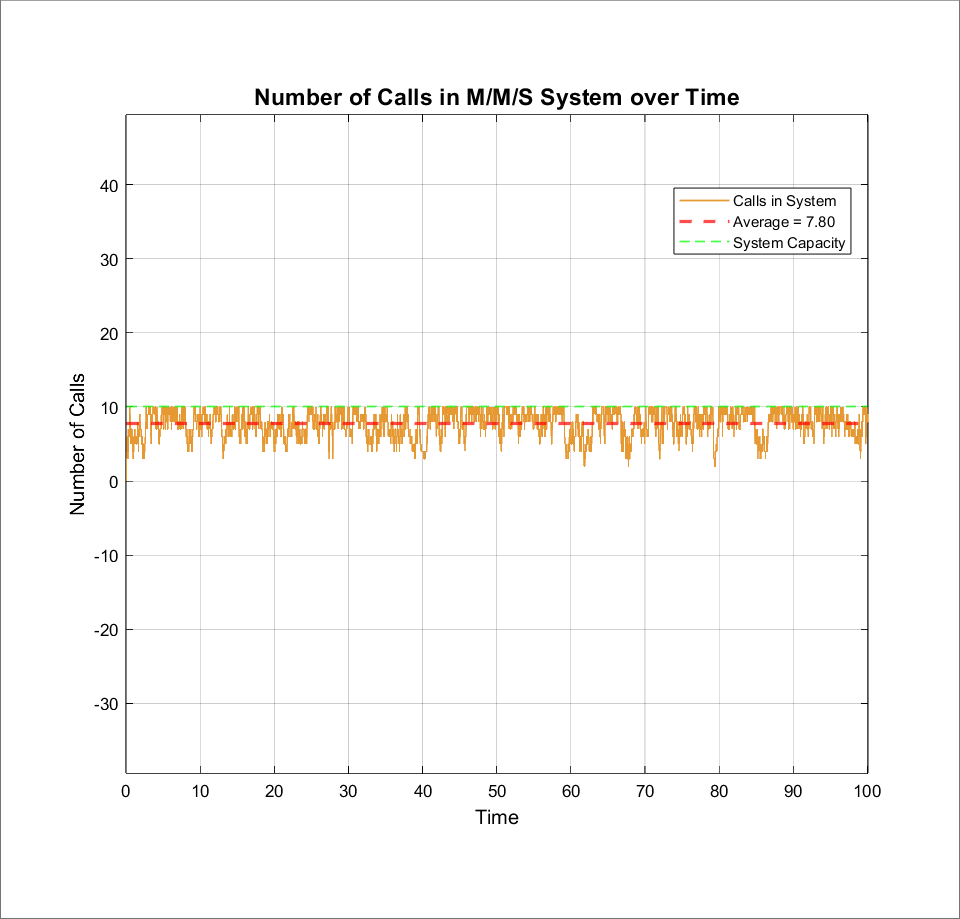
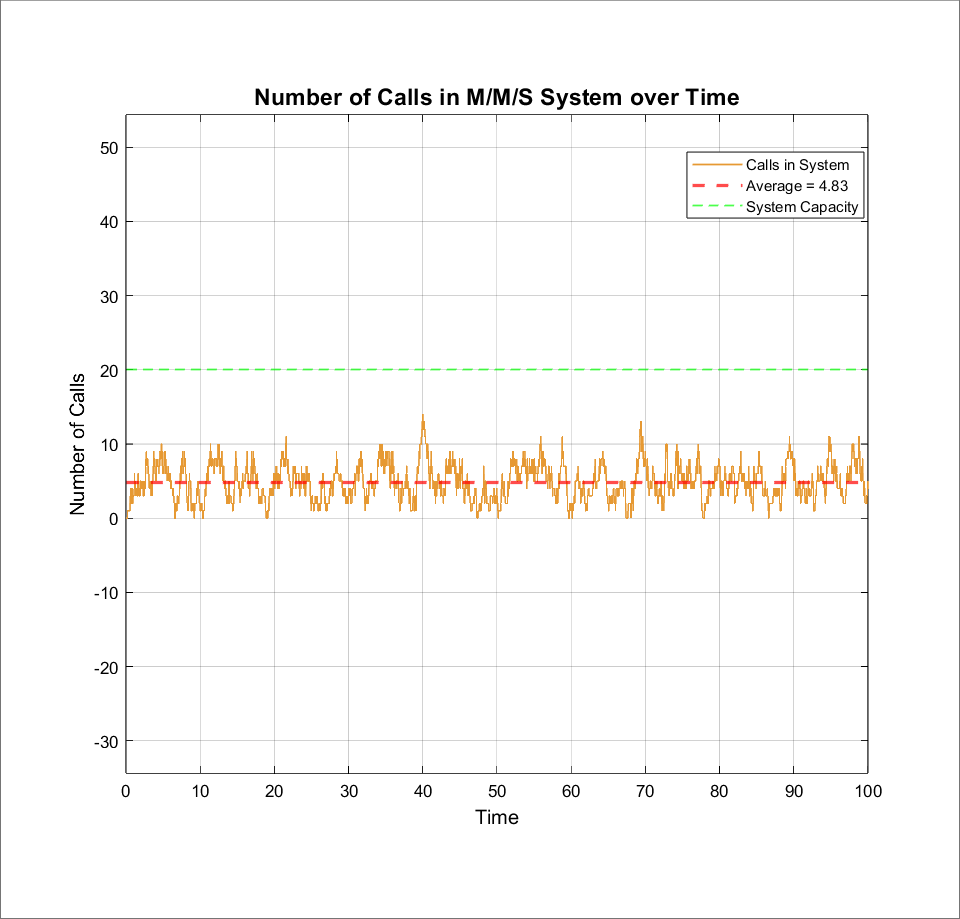
Refactored to Simulate on Server Capacity Values

diff --git a/M_M_S.m b/M_M_S.m
@@ -5,20 +5,20 @@ close all; % Close all open figure windows
 rng(11); % Random generator seed for reproducibility
 
 % Parameters
-lambda_range = 0.1:0.1:20; % Arrival rate (lambda calls per unit time)
+lambda = 10; % Arrival rate (lambda calls per unit time)
 mu = 2; % Service rate (mu calls per unit time)
-S = 10; % Number of servers
+S_range = 1:1:20; % Number of servers (range of them)
 total_time = 100; % Total time for the simulation (total unit time)
 
 % Storage
-loss_probabilities = zeros(size(lambda_range)); % All simulated loss probabilities
-theoretical_loss_probabilities = zeros(size(lambda_range)); % All theoretical loss probabilities
-utilization = zeros(size(lambda_range)); % All simulated server utilization rates
-theoretical_utilization = zeros(size(lambda_range)); % All theoretical server utilization rates
+loss_probabilities = zeros(size(S_range)); % All simulated loss probabilities
+theoretical_loss_probabilities = zeros(size(S_range)); % All theoretical loss probabilities
+utilization = zeros(size(S_range)); % All simulated server utilization rates
+theoretical_utilization = zeros(size(S_range)); % All theoretical server utilization rates
 
-% Simulations for different values of lambda
-for idx = 1:length(lambda_range)
-    lambda = lambda_range(idx);  % Current lambda value
+% Simulations for different values of S
+for idx = 1:length(S_range)
+    S = S_range(idx);  % Current S value
     
     % Storage
     time_in_system = []; % Unit time at specific event (index is event)
@@ -92,7 +92,7 @@ for idx = 1:length(lambda_range)
         calls_in_system(end + 1) = num_calls;
     end
 
-    % Simulated loss probability for this lambda
+    % Simulated loss probability for specific S value
     loss_probabilities(idx) = num_dropped_calls / num_offered_calls;
 
     % Theoretical loss probability using Erlang B formula
@@ -111,7 +111,7 @@ for idx = 1:length(lambda_range)
 
 
     % Only done for the last simulation
-    if idx == length(lambda_range)
+    if idx == length(S_range)
 
         % Weighted average number of calls in the system
         sum_calls = 0;
@@ -177,14 +177,14 @@ for idx = 1:length(lambda_range)
 end
 
 % Calculate trend line of simulated loss probability using cubic smoothing spline
-spline_fit = csaps(lambda_range, loss_probabilities, 0.05);
-fitted_loss_probabilities = fnval(spline_fit, lambda_range);
+spline_fit = csaps(S_range, loss_probabilities, 0.05);
+fitted_loss_probabilities = fnval(spline_fit, S_range);
 fitted_loss_probabilities = max(min(fitted_loss_probabilities, 1), 0);
 fitted_qos = 1 - fitted_loss_probabilities;
 
 % Calculate trend line of simulated utilization using cubic smoothing spline
-u_spline_fit = csaps(lambda_range, utilization, 0.05);
-fitted_utilization = fnval(u_spline_fit, lambda_range);
+u_spline_fit = csaps(S_range, utilization, 0.05);
+fitted_utilization = fnval(u_spline_fit, S_range);
 fitted_utilization = max(min(fitted_utilization, 1), 0);
 
 % Screen size for positioning
@@ -193,23 +193,23 @@ figure_width = screen_size(3) / 3;
 figure_height = screen_size(4) - 200;
 
 
-% Visualization: probability of loss vs lambda and server utilization vs lambda
+% Visualization: probability of loss vs capacity and server utilization vs capacity
 figure(3);
 set(gcf, 'Color', [0.15, 0.15, 0.15], 'Position', [figure_width, 100, figure_width, figure_height]);
 
-% Probability of loss vs lambda
+% Probability of loss vs capacity
 subplot(2, 1, 1);
-plot(lambda_range, loss_probabilities, 'o', 'MarkerSize', 3, 'LineWidth', 1, 'Color', [0.9, 0.6, 0.2]);
+plot(S_range, loss_probabilities, 'o', 'MarkerSize', 3, 'LineWidth', 1, 'Color', [0.9, 0.6, 0.2]);
 hold on;
 
-plot(lambda_range, fitted_loss_probabilities, 'r--', 'LineWidth', 2);
+plot(S_range, fitted_loss_probabilities, 'r--', 'LineWidth', 2);
  
-plot(lambda_range, theoretical_loss_probabilities, '--', 'LineWidth', 1, 'Color', [0.0, 1.0, 1.0]);
+plot(S_range, theoretical_loss_probabilities, '--', 'LineWidth', 1, 'Color', [0.0, 1.0, 1.0]);
 
-plot(lambda_range, fitted_qos, 'g--', 'LineWidth', 1);
+plot(S_range, fitted_qos, 'g--', 'LineWidth', 1);
 
-title('Probability of Loss in M/M/S System vs Arrival Rate (\lambda)', 'Color', 'w', 'FontSize', 14);
-xlabel('Arrival Rate (\lambda)', 'Color', 'w', 'FontSize', 12);
+title('Probability of Loss in M/M/S System vs Capacity (S)', 'Color', 'w', 'FontSize', 14);
+xlabel('Capacity (S)', 'Color', 'w', 'FontSize', 12);
 ylabel('Probability of Loss', 'Color', 'w', 'FontSize', 12);
 
 grid on;
@@ -220,17 +220,17 @@ legend({'Simulated Loss Probability', 'Trend of Simulated Loss Probability', 'Th
 ylim([0 1]);
 axis normal;
 
-% Server utilization vs lambda
+% Server utilization vs capacity
 subplot(2, 1, 2);
-plot(lambda_range, utilization * 100, 'o', 'MarkerSize', 3, 'LineWidth', 1, 'Color', [0.9, 0.6, 0.2]);
+plot(S_range, utilization * 100, 'o', 'MarkerSize', 3, 'LineWidth', 1, 'Color', [0.9, 0.6, 0.2]);
 hold on;
 
-plot(lambda_range, fitted_utilization * 100, 'r--', 'LineWidth', 2);
+plot(S_range, fitted_utilization * 100, 'r--', 'LineWidth', 2);
 
-plot(lambda_range, theoretical_utilization * 100, '--', 'LineWidth', 1, 'Color', [0.0, 1.0, 1.0]);
+plot(S_range, theoretical_utilization * 100, '--', 'LineWidth', 1, 'Color', [0.0, 1.0, 1.0]);
 
-title('Server Utilization in M/M/S System vs Arrival Rate (\lambda)', 'Color', 'w', 'FontSize', 14);
-xlabel('Arrival Rate (\lambda)', 'Color', 'w', 'FontSize', 12);
+title('Server Utilization in M/M/S System vs Capacity (S)', 'Color', 'w', 'FontSize', 14);
+xlabel('Capacity (S)', 'Color', 'w', 'FontSize', 12);
 ylabel('Server Utilization (%)', 'Color', 'w', 'FontSize', 12);
 
 grid on;

diff --git a/README.md b/README.md
@@ -48,16 +48,16 @@ The simulation compares the next arrival time (`next_arrival_time`) and the earl
 
 ### Simulation Parameters
 
-- **Arrival Rate (λ):** The average number of arrivals per unit time. This is an array for server utilization and loss probability statistics.
+- **Arrival Rate (λ):** The average number of arrivals per unit time.
 - **Service Rate (μ):** The average number of services completed per unit time.
-- **Number of Servers (S):** The total number of servers.
+- **Number of Servers (S):** The total number of servers. This is an array for server utilization and loss probability statistics.
 - **Total Time:** The duration of the simulation.
 
 ```matlab
-lambda_range = 0.1:0.1:20 % arrivals / unit time
-mu = 2                    % services / unit time
-S = 10                    % number of servers
-total_time = 100          % units
+lambda = 10      % arrivals / unit time
+mu = 2           % services / unit time
+S_range = 1:1:20 % number of servers
+total_time = 100 % units
 ```
 
 ---
@@ -80,7 +80,7 @@ total_time = 100          % units
    - Log the system state after each event (time and number of calls).
 4. Continue until simulation time is exceeded (`current_time >= total_time`).
 
-This process iterates until simulations are computed with all arrival rates.
+This process iterates until simulations are computed with all server capacities.
 
 ---
 
@@ -90,7 +90,7 @@ This process iterates until simulations are computed with all arrival rates.
 
 This plot tracks the evolution of the number of active calls during the simulation. The orange line represents the number of active calls at each logged event. The red dashed line shows the time-weighted average number of calls, computed across the simulation duration. The green dashed line indicates the overall maximum system capacity.
 
-_This visualization is only created for the last arrival rate (λ) value. In this case for `λ = 20`._
+_This visualization is only created for the last server capacity (S) value. In this case for `S = 20`._
 
 <div align="center">
   <img src="assets/graph1-dark.png#gh-dark-mode-only" alt="Number of Calls" style="width: 500px; height: auto; border-radius: 4px;">
@@ -101,19 +101,19 @@ _This visualization is only created for the last arrival rate (λ) value. In thi
 
 This histogram displays the probability distribution of the number of active calls during the simulation. The distribution reflects the system's overall load.
 
-_This visualization is only created for the last arrival rate (λ) value. In this case for `λ = 20`._
+_This visualization is only created for the last server capacity (S) value. In this case for `S = 20`._
 
 <div align="center">
   <img src="assets/graph2-dark.png#gh-dark-mode-only" alt="Calls Distribution" style="width: 500px; height: auto; border-radius: 4px;">
   <img src="assets/graph2-light.png#gh-light-mode-only" alt="Calls Distribution" style="width: 500px; height: auto; border-radius: 4px;">
 </div>
 
-#### Probability of Loss Across Arrival Rates and Server Utilization Across Arrival Rates
+#### Probability of Loss Across Server Capacities and Server Utilization Across Server Capacities
 
 This plot provides two separate graphs:
 
-1. **Probability of Loss Across Arrival Rates:** This plot shows the probability of call loss for different arrival rates (λ), based on fixed server count (S) and service rates (μ). The red dashed line represent the trend of simulated loss probabilities across arrival rates. The green dashed line indicates simulated system overall quality of service across arrival rates. The cyan dashed line represents theoretical loss probability across arrival rates. Orange dots are simulated loss probabilities at each arrival rate.
-2. **Server Utilization Across Arrival Rates:** This plot represents the server utilization for different arrival rates (λ), based on fixed server count (S) and service  rates (μ). The red dashed line shows the trend of simulated utilization across arrival rates. The cyan dashed line represents theoretical utilization across arrival rates. Orange dots are simulated utilizations at each arrival rate.
+1. **Probability of Loss Across Server Capacities:** This plot shows the probability of call loss for different server capacities (S), based on fixed arrival rate (λ) and service rate (μ). The red dashed line represent the trend of simulated loss probabilities across server capacities. The green dashed line indicates simulated system overall quality of service across server capacities. The cyan dashed line represents theoretical loss probability across server capacities. Orange dots are simulated loss probabilities at each server capacity.
+2. **Server Utilization Across Server Capacities:** This plot represents the server utilization for different server capacities (S), based on fixed arrival rate (λ) and service rate (μ). The red dashed line shows the trend of simulated utilization across server capacities. The cyan dashed line represents theoretical utilization across server capacities. Orange dots are simulated utilizations at each server capacity.
 
 <div align="center">
   <img src="assets/graph3-dark.png#gh-dark-mode-only" alt="Loss and Utilization" style="width: 500px; height: auto; border-radius: 4px;">
@@ -129,7 +129,7 @@ This plot provides two separate graphs:
    git clone https://github.com/mantvydasdeltuva/m_m_s-queue-simulation.git
    cd m_m_s-queue-simulation
 2. Open the MATLAB script in the MATLAB editor.
-3. Modify the parameters (`lambda_range`, `mu`, `S`, `total_time`) if needed.
+3. Modify the parameters (`lambda`, `mu`, `S_range`, `total_time`) if needed.
 4. Run the script to simulate and generate the visualizations.
 
 ---
